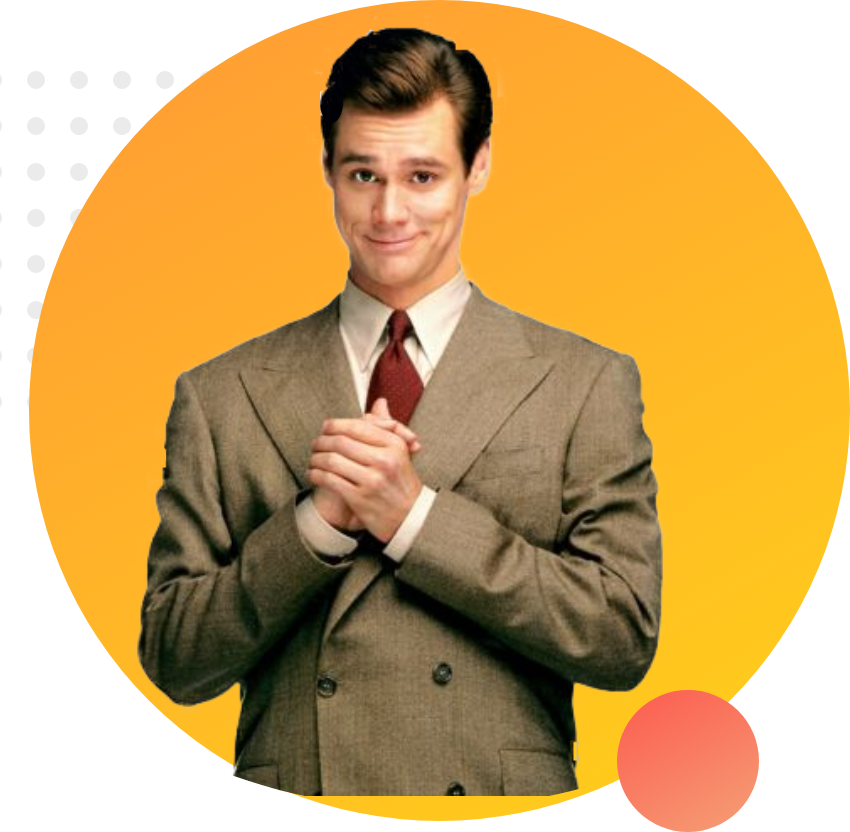
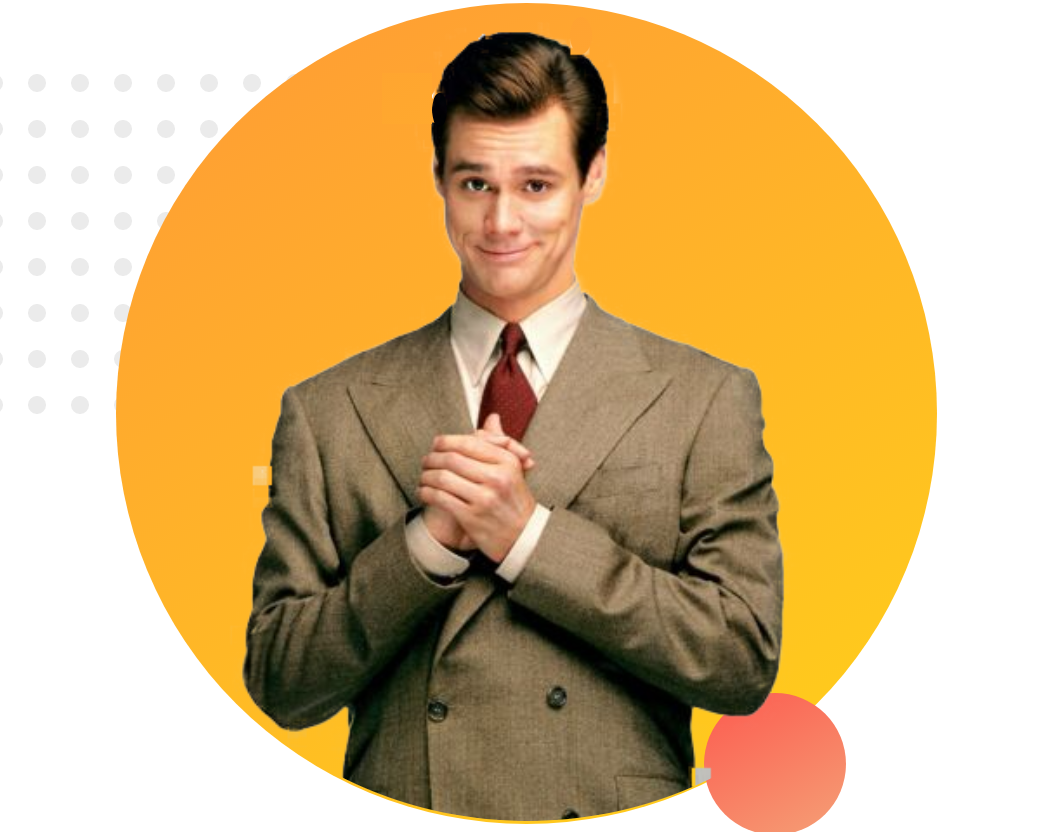
update

diff --git a/index.html b/index.html
@@ -8,12 +8,12 @@
     <link rel="stylesheet" href="style.css">
 </head>
 <body>
-    <section>
+    <section class="top-banner">
         <div class="half-width">
             <h1>Welcome To </h1>
             <h1><span class="name-highlight">Jim Carrey</span> World famous legendary actor</h1>
-            <h3>World Class Web Developer :|</h3>
             <p>James Eugene Carrey is a Canadian-American actor, comedian, writer, and artist. He is known for his energetic slapstick performances. Carrey first gained recognition in America in 1990 after landing a recurring role in the sketch comedy television series In Living Color.. </p>
+            <a class="link-button" target="_blank" href="https://en.wikipedia.org/wiki/Jim_Carrey">Know more about Jim</a>
         </div>
         <div class="half-width">
             <img src="images/profile.png" alt="">

diff --git a/style.css b/style.css
@@ -1,4 +1,5 @@
 body{
+    margin: 0px;
     font-family: 'Poppins', sans-serif;
 }
 h1{
@@ -15,4 +16,21 @@ h1{
 }
 .half-width img{
     width: 100%;
+}
+.top-banner{
+    
+    background-image: url(images/top-banner.png);
+    background-repeat: no-repeat;
+}
+section{
+    height: 500px;
+}
+
+.link-button{
+    text-decoration: none;
+    background-image: linear-gradient(45deg, lightSalmon,tomato);
+    padding: 10px 20px;
+    border-radius: 5px;
+    color: white;
+     
 }
